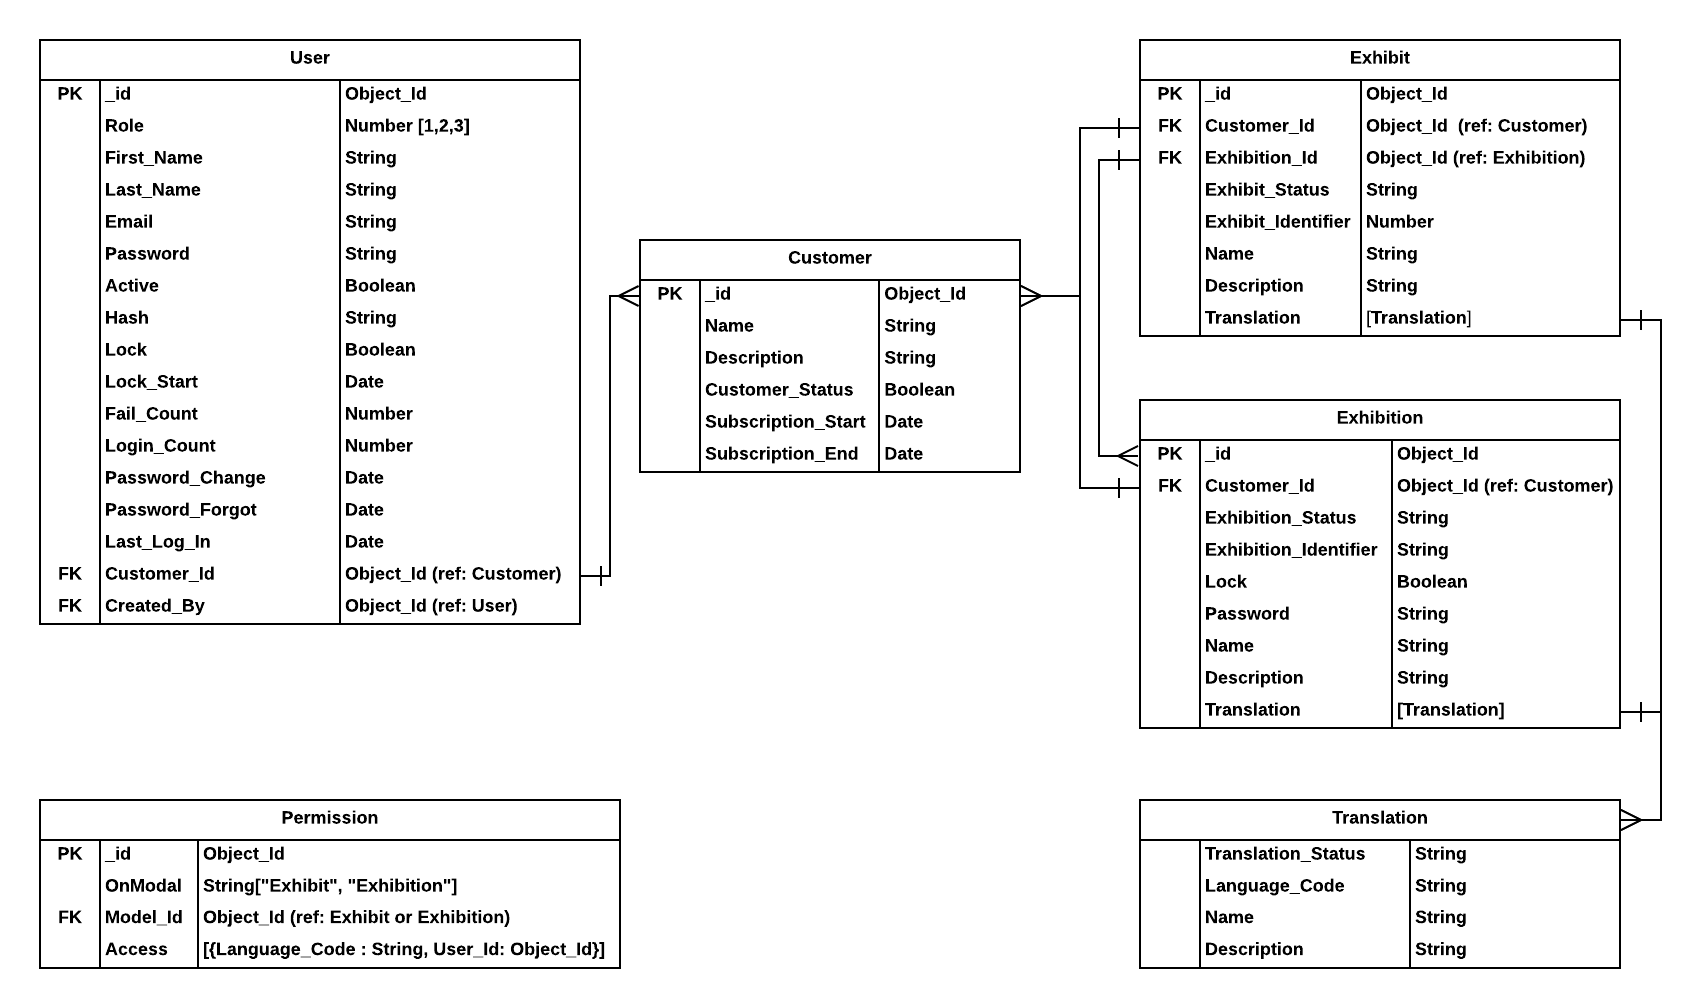
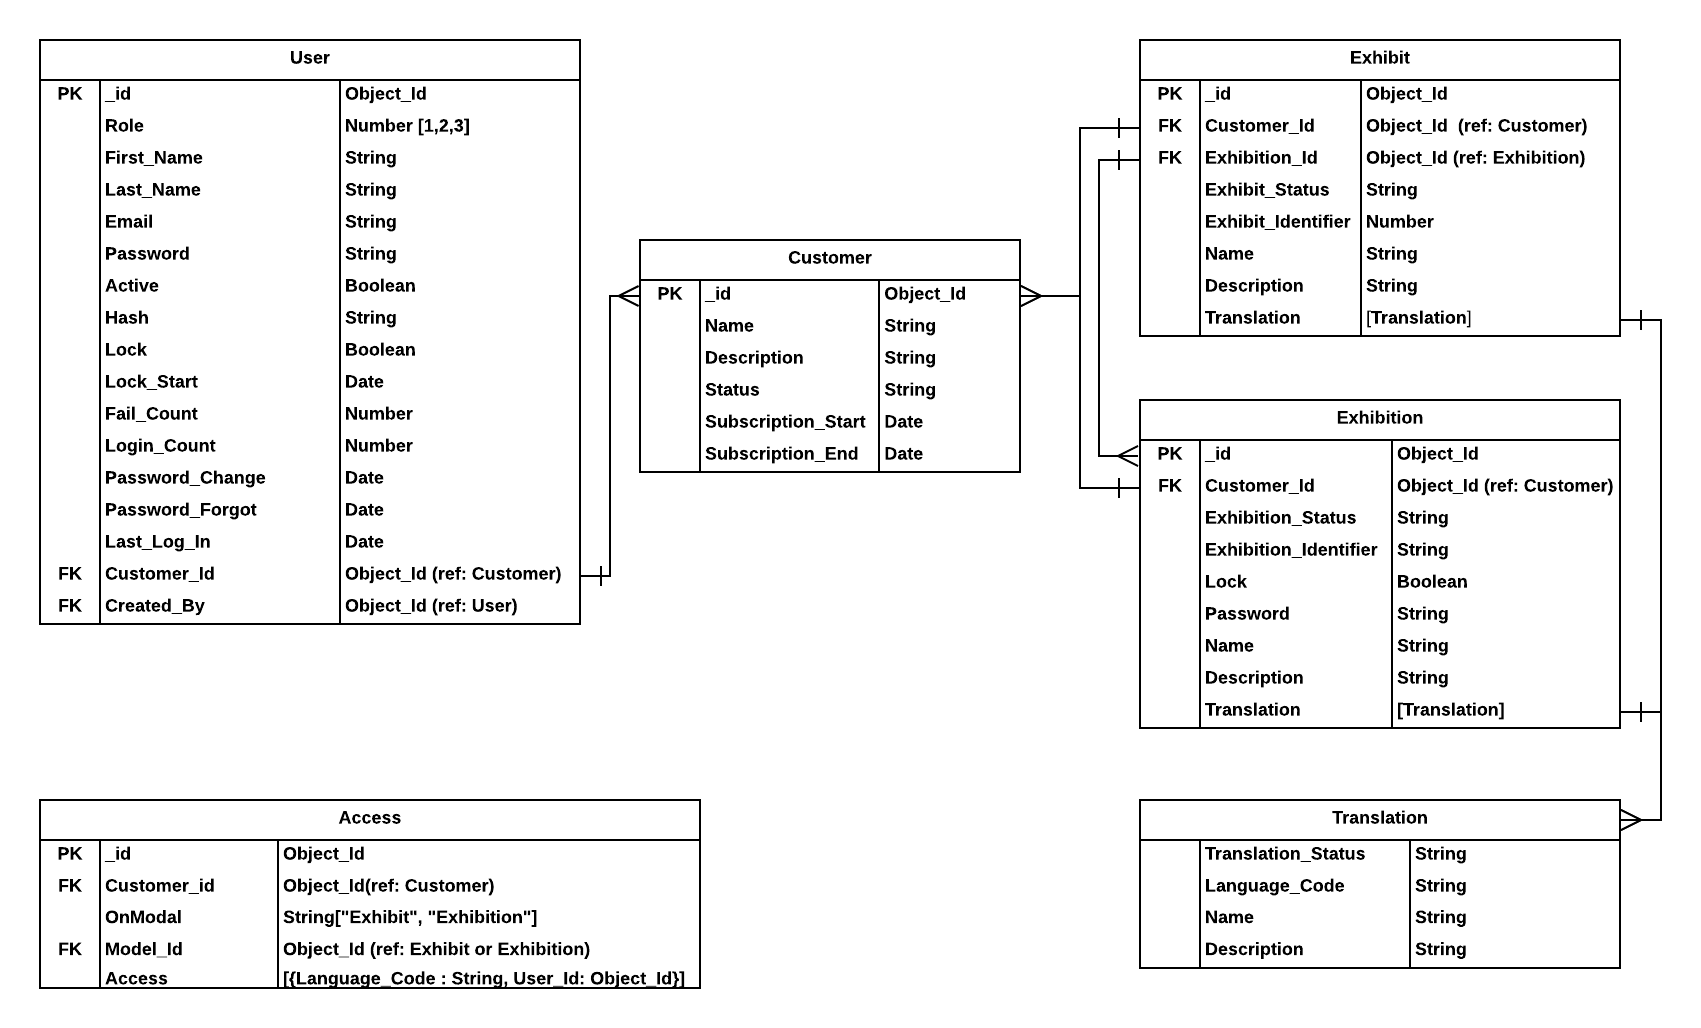
Updated database model.
Added Customer_Id to Access schema.

diff --git a/src/controllers/userController.js b/src/controllers/userController.js
@@ -13,16 +13,16 @@ function UserController(mongoose, User, Customer, Exhibit, Exhibition) {
    * active=ture/false
    * page=number
    *
-   * Return Array[
-   *  Customer_Id,
-   *  Name of Customer,
-   *  Manager_Id,
-   *  Email of Manager,
+   * Return:
+   * Array[Object{
+   *  _id(Customer),
+   *  Name(Customer),
+   *  Status(Customer)
+   *  _id(User where Role === MANAGER),
+   *  Email(User where Role === MANAGER),
    *  #Exhibition,
    *  #Exhibits,
-   *  Created date
-   *  Status
-   * ]
+   * }]
    *
    */
   async function getAllCustomer(req, res) {
@@ -97,16 +97,17 @@ function UserController(mongoose, User, Customer, Exhibit, Exhibition) {
    * Query:
    * sort=[first_name, last_name, email, Name of Customer]-[asc, desc]
    *
-   * Return Array[
-   *   Customer_Id,
-   *   Name of Customer,
-   *   Manager_Id,
-   *   First Name,
-   *   Last Name,
-   *   Email,
-   *   Staff Number,
-   *   Status
-   * ]
+   * Return:
+   * Array[Object{
+   *   _id(Customer),
+   *   Name(Customer),
+   *   _id(User where Role === MANAGER),
+   *   First_Name(User),
+   *   Last_Name(User),
+   *   Email(User),
+   *   Status (User)
+   *   #Staff
+   * }]
    */
   async function getAllManager(req, res) {}
 
@@ -118,40 +119,117 @@ function UserController(mongoose, User, Customer, Exhibit, Exhibition) {
    * sort=[first_name, last_name, email]
    *
    * GUIDEXP:
-   * Return Array[
-   *  Customer_Id,
-   *  Name of Customer,
-   *  First Name
-   *  Last Name,
-   *  Email,
-   *  Status
-   * ]
+   * Return:
+   * Array[Object{
+   *  _id(Customer),
+   *  Name(Customer),
+   *  First_Name(User)
+   *  Last_Name(User),
+   *  Email(User),
+   *  Status(User)
+   * }]
    *
    * MANAGER:
-   * Return Array[
-   *   First Name,
-   *   Last Name,
-   *   Email,
-   *   Status,
-   * ]
+   * Return:
+   * Array[Object{
+   *   First_Name(User),
+   *   Last_Name(User),
+   *   Email(User),
+   *   Status(User)
+   * }]
    */
   async function getAllStaff(req, res) {}
 
   /**
    * User: GUIDEXP
+   * Return:
+   * Obeject({
+   *  _id(Customer),
+   *  Name(Customer),
+   *  Description(Customer),
+   *  Customer_Status(Customer),
+   *  Subscription_Start(Customer),
+   *  Subscription_End(Customer),
+   *  _id(User),
+   *  Email(User),
+   *  #Exhibits,
+   *  #Exhibitions
+   * })
    *
+   * 1: FindOne from User table using customer_id and Role = 2
+   * 2: Populate the customer from customer_id
    */
-  async function getSingleCustomer(req, res) {}
+  async function getSingleCustomer(req, res) {
+    const customer_id = req.params.userId;
+
+    const p1 = User.findOne({
+      Customer_Id: customer_id,
+      Role: ROLE.MANAGER,
+    })
+      .populate("Customer_Id")
+      .lean();
+
+    const p2 = Exhibition.countDocuments({ Customer_Id: customer_id });
+
+    const p3 = Exhibit.countDocuments({ Customer_Id: customer_id });
+
+    Promise.all([p1, p2, p3]).then((values) =>
+      res.status(httpHelper.OK).send(values)
+    );
+  }
 
   /**
    * User: GUIDEXP
+   * Return:
+   * Object({
+   *  _id(Customer),
+   *  Name(Customer),
+   *  _id(User where Role == MANAGER),
+   *  Email(User),
+   *  First_Name(User),
+   *  Last_Name(User)
+   * })
    */
-  async function getSingleManager(req, res) {}
+  async function getSingleManager(req, res) {
+    const customer_id = req.params.customerId;
+    const user_id = req.params.userId;
+    const doc = await User.findOne({
+      Customer_Id: customer_id,
+      _id: user_id,
+    })
+      .populate("Customer_Id")
+      .lean();
+
+    return res.status(httpHelper.OK).send(doc);
+  }
 
   /**
    * User: GUIDEXP, MANAGER
+   * Return:
+   * Object({
+   *  First_Name(User),
+   *  Last_Name(User),
+   *  Email (User),
+   *  Active (User),
+   *  Array[
+   *    {Model, Model_Id, Language_Code}
+   *  ](Permission)
+   * })
+   *
    */
-  async function getSingleStaff(req, res) {}
+  async function getSingleStaff(req, res) {
+    const user_id = req.params.userId;
+    const customer_id = req.params.customerId;
+    if (req.user.Role === ROLE.GUIDEXP) {
+      //GUIDEXP making this request
+      const p1 = User.findOne({
+        Customer_Id: customer_id,
+        _id: user_id,
+      });
+    } else {
+      //MANAGER making this request
+    }
+  }
 
   /**
    * GUIDEXP create a new customer

diff --git a/src/routes/user.js b/src/routes/user.js
@@ -1,7 +1,7 @@
 const express = require("express");
 const router = express.Router();
 const db = require("../db/db");
-const { User, Customer, Exhibit, Exhibition } = db.models;
+const { User, Customer, Exhibit, Exhibition, Access } = db.models;
 const { mongoose } = db;
 //
 const asyncMiddleware = require("../middleware/async");
@@ -21,7 +21,7 @@ const {
   postActivateUser,
   postDeactivateUser,
   postPermission,
-} = UserController(mongoose, User, Customer, Exhibit, Exhibition);
+} = UserController(mongoose, User, Customer, Exhibit, Exhibition, Access);
 
 //Every route here is not open to the public. thus the following middleware is used.
 router.use(tokenMiddleware);
@@ -60,7 +60,7 @@ router.get(
  */
 router.get(
   "/customer/:userId",
-  authorizationMiddleware(0b001),
+  authorizationMiddleware(0b011),
   asyncMiddleware(getSingleCustomer)
 );
 
@@ -68,7 +68,7 @@ router.get(
  * Permission: GUIDEXP
  */
 router.get(
-  "/manager/:userId",
+  "/manager/:customerId/:userId", //Customer Id & User Id are the indexes in User table
   authorizationMiddleware(0b001),
   asyncMiddleware(getSingleManager)
 );
@@ -77,7 +77,7 @@ router.get(
  * Permission: GUIDEXP MANAGER
  */
 router.get(
-  "/staff/:userId",
+  "/staff/:customerId/:userId",
   authorizationMiddleware(0b011),
   asyncMiddleware(getSingleStaff)
 );

diff --git a/src/db/schemas/Customer.js b/src/db/schemas/Customer.js
@@ -9,9 +9,10 @@ module.exports = function (mongoose) {
       required: true,
     },
     Status: {
-      type: Boolean,
+      type: String,
+      enum: ["Active", "Not Active"],
       require: true,
-      default: false,
+      default: "Not Active",
     },
     Subscription_Start: Date,
     Subscription_End: Date,

diff --git a/src/db/schemas/Access.js b/src/db/schemas/Access.js
@@ -1,5 +1,9 @@
 module.exports = function (mongoose) {
   const UserAccess = new mongoose.Schema({
+    Customer_Id: {
+      type: mongoose.Schema.Types.ObjectId,
+      ref: "Customer",
+    },
     OnModel: {
       type: String,
       enum: ["Exhibit", "Exhibition"],
